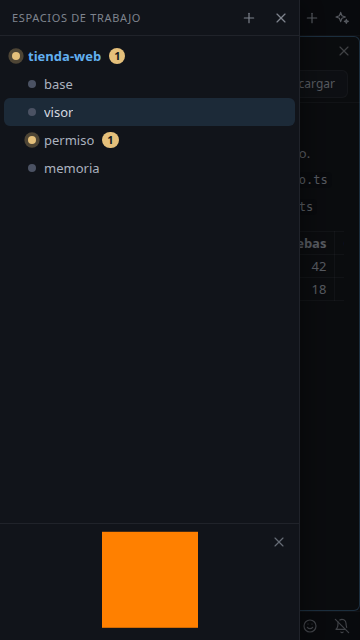
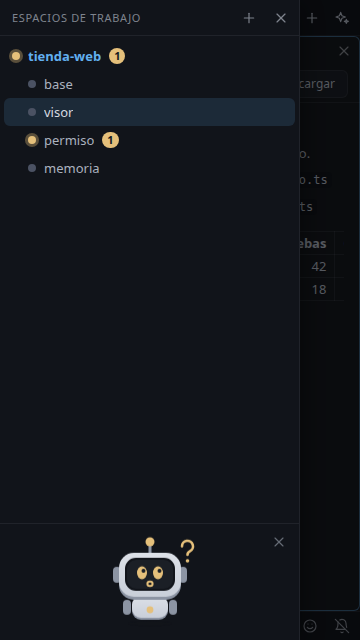
docs: capturas f5-4 y f5-estado regeneradas con Robi; se borran las f5-ancho obsoletas

Changed region(s): [[0.275, 0.8125, 0.55, 1.0]]

diff --git a/e2e/companion.spec.ts b/e2e/companion.spec.ts
@@ -240,6 +240,11 @@ test.describe('capturas F5.3', () => {
   const shot = async (app: Page, name: string) => {
     // Deja terminar el fundido de entrada de la imagen (180 ms) antes de la captura.
     await app.waitForTimeout(450)
+    // La ruta de trabajo de la prueba no es la de nadie: se sustituye por una de ejemplo.
+    await app.evaluate(() => {
+      for (const el of document.querySelectorAll('.chip.fixed.ellipsis'))
+        el.textContent = '~/tienda-web'
+    })
     mkdirSync(OUT, { recursive: true })
     await app.screenshot({ path: join(OUT, `f5-${name}.png`) })
   }
